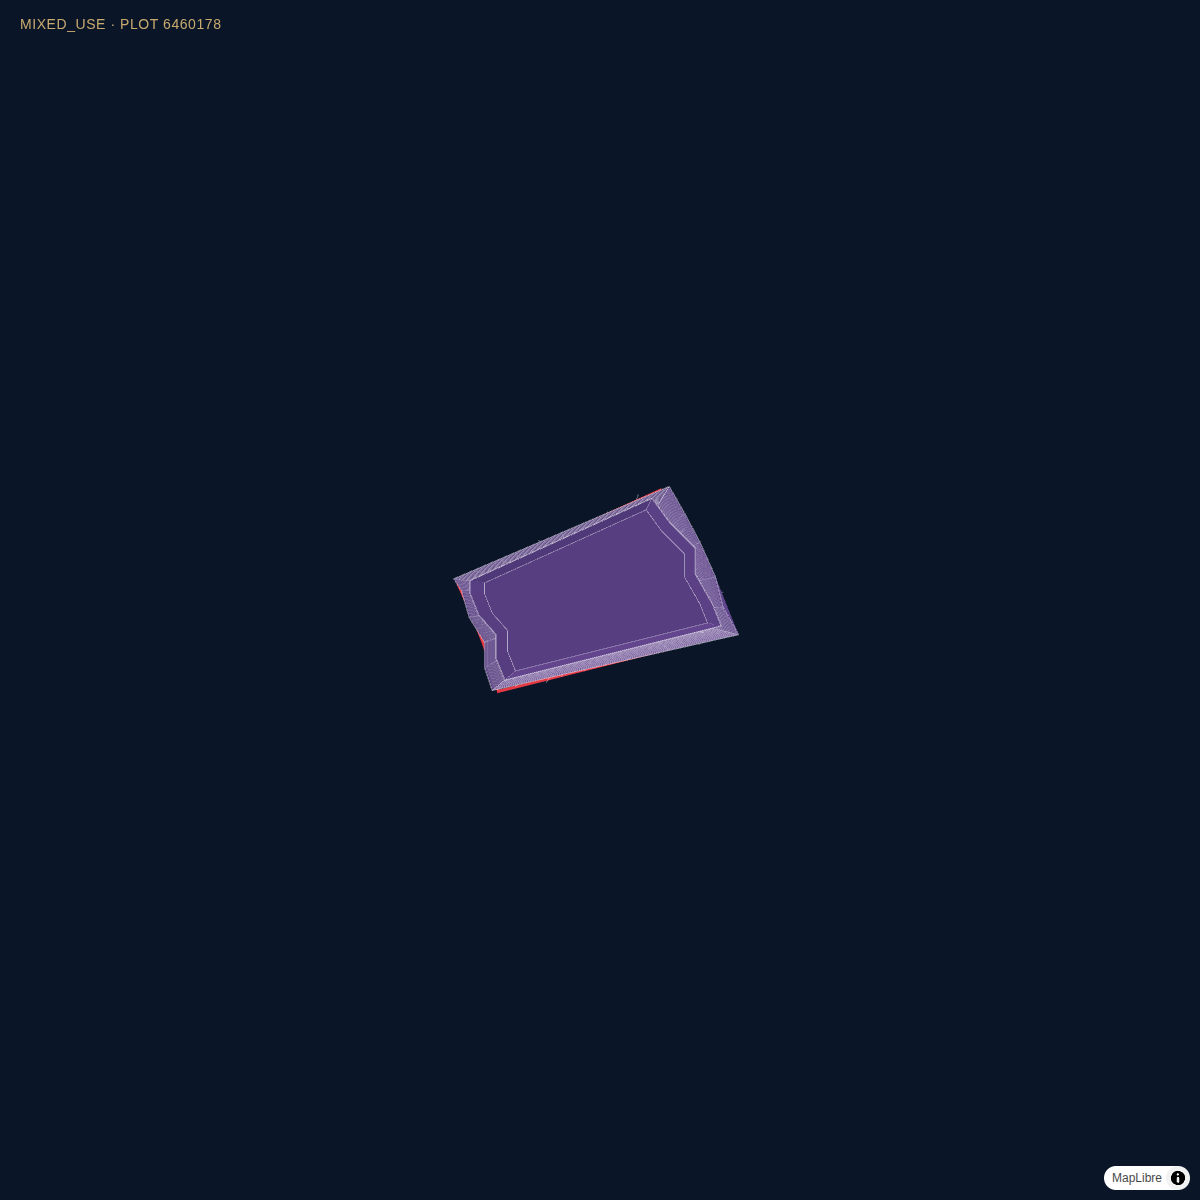
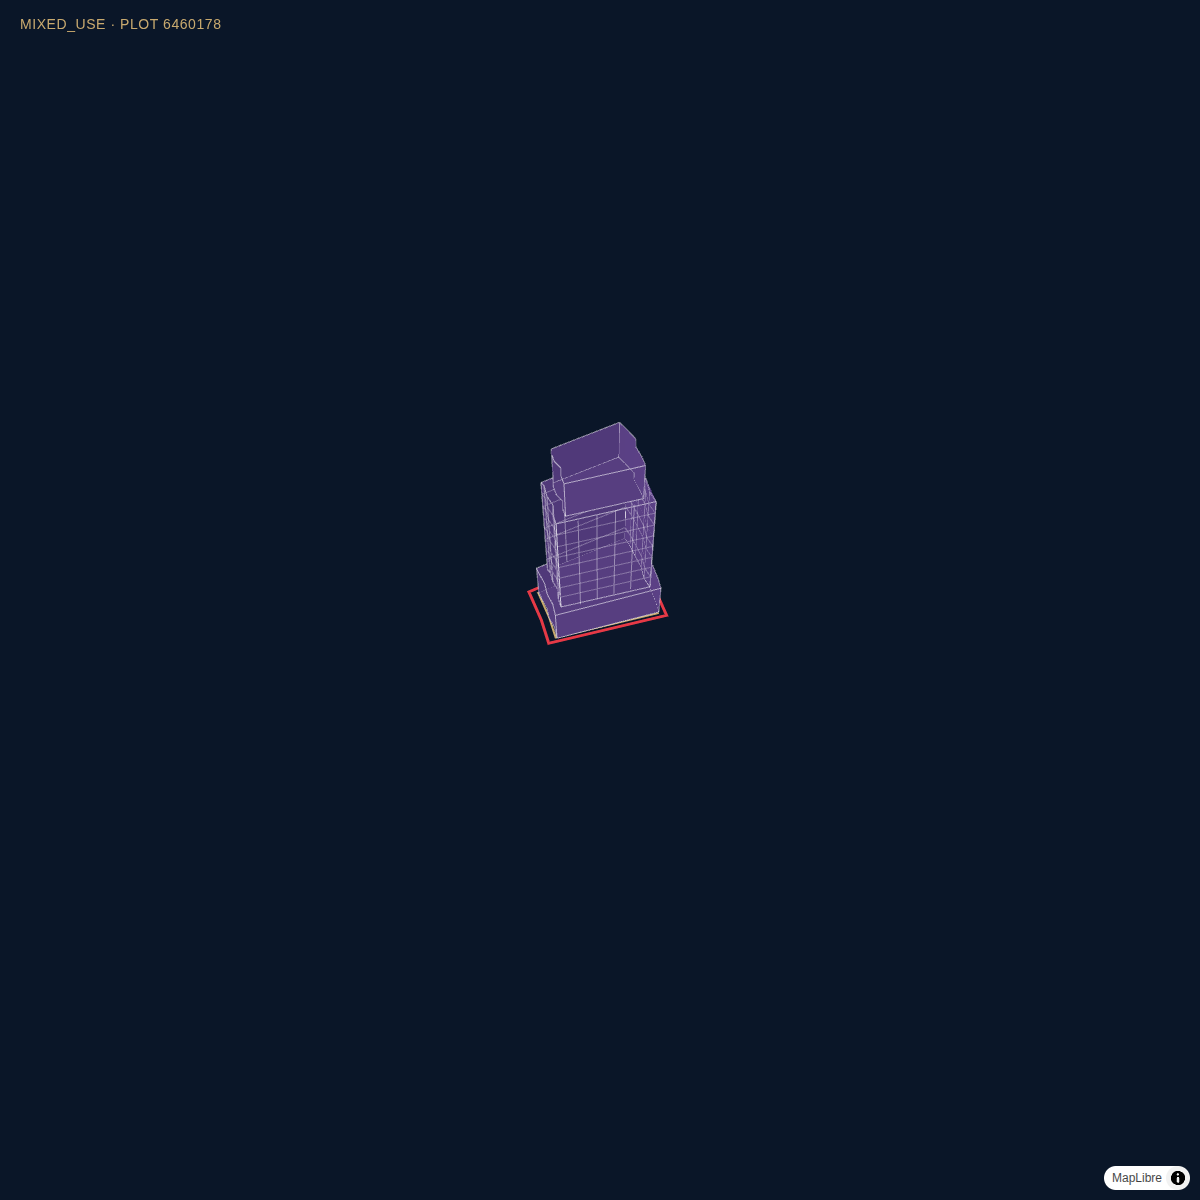
fix(archetypes): mixed-use reads solid — sparse ribs/bands (cage → opaque)
Founder: mixed-use looked transparent vs solid residential. Isolation (rendered
without ribs/bands) proved the FACES were solid purple — the see-through was the
DENSE white lattice: vertical ribs every 6m + floor bands every 3.5m on a 158m
body ≈ 45+ transparent lines reading as a wireframe cage. Fixes:
- Floor bands SPARSE for mixed-use (≤~8, step = span/8) vs per-floor for
  residential — gated on the ribs flag so RESIDENTIAL is untouched.
- Vertical ribs SPARSE (~every 14m, was 6m), opacity 0.4. Reads as clean facade
  rhythm over a solid body, not a cage.
- buildMixedUse inner tiers use scaleRing only (homothety = always fillable); no
  builder clampToFootprint (the layer's plot clamp still bounds them).
Material already opacity-1 / depthWrite (solid). Colour #6B4C9A. Verified
docs/research/archetype-shots-v2/mixeduse-6460178-3d/topdown.png — solid purple,
facade ribs, in bounds, background not showing through.

Residential + other 7 untouched. tsc clean, build green. Not merged; tiles untouched.

Changed region(s): [[0.37, 0.3392, 0.6167, 0.5858]]

diff --git a/src/lib/archetypes/archetype-layer.ts b/src/lib/archetypes/archetype-layer.ts
@@ -204,12 +204,14 @@ export function installArchetypeLayer(map: maplibregl.Map): ArchetypeLayerContro
           bGroup.add(eg);
           meshes++;
         }
-        // Floor bands — light horizontal ribs every floor on the main body.
+        // Floor bands — light horizontal rhythm on the main body. SPARSE for
+        // mixed-use (built.ribs) so the dense lattice doesn't read as a
+        // transparent cage over the solid body; residential keeps per-floor.
         if (tallRing && tallTop - tallBase >= FLOOR_H * 1.5) {
-          const bandMat = new THREE.LineBasicMaterial({ color: 0xffffff, transparent: true, opacity: 0.3 });
-          const nFloors = Math.min(60, Math.floor((tallTop - tallBase) / FLOOR_H));
-          for (let i = 1; i < nFloors; i++) {
-            const h = tallBase + i * FLOOR_H;
+          const bandMat = new THREE.LineBasicMaterial({ color: 0xffffff, transparent: true, opacity: 0.28 });
+          const span = tallTop - tallBase;
+          const bandStep = built.ribs ? Math.max(FLOOR_H, span / 8) : FLOOR_H; // ≤~8 bands for mixed-use
+          for (let h = tallBase + bandStep; h < tallTop - 0.5; h += bandStep) {
             const band = new THREE.LineLoop(
               new THREE.BufferGeometry().setFromPoints((tallRing as number[][]).map(([x, y]) => new THREE.Vector3(x, y, h))),
               bandMat,
@@ -220,18 +222,18 @@ export function installArchetypeLayer(map: maplibregl.Map): ArchetypeLayerContro
             bGroup.add(band);
           }
         }
-        // Vertical rib pilasters on the body (mixed-use facade rhythm,
-        // founder 2026-06-14). Sampled ~6 m along the body ring perimeter,
-        // each a vertical segment base→top. Line overlay — geometry untouched.
+        // Vertical rib pilasters on the body (mixed-use facade rhythm, founder
+        // 2026-06-14). SPARSE — ~every 14 m along the perimeter — so the solid
+        // purple body dominates and reads opaque. Line overlay; geometry intact.
         if (built.ribs && tallRing && tallTop - tallBase >= FLOOR_H) {
-          const ribMat = new THREE.LineBasicMaterial({ color: 0xffffff, transparent: true, opacity: 0.35 });
+          const ribMat = new THREE.LineBasicMaterial({ color: 0xffffff, transparent: true, opacity: 0.4 });
           const pos: number[] = [];
           const r = tallRing;
           for (let i = 0; i < r.length - 1; i++) {
             const [ax, ay] = r[i];
             const [bx, by] = r[i + 1];
             const segLen = Math.hypot(bx - ax, by - ay);
-            const steps = Math.max(1, Math.round(segLen / 6));
+            const steps = Math.max(1, Math.round(segLen / 14));
             for (let k = 0; k < steps; k++) {
               const t = k / steps;
               const x = ax + (bx - ax) * t;

diff --git a/src/lib/archetypes/geometry.ts b/src/lib/archetypes/geometry.ts
@@ -182,11 +182,16 @@ export function buildMixedUse(foot: number[][], _obb: Obb, H: number): BuildResu
   // rib pilasters on the body give the facade rhythm of the reference.
   const podiumTop = H * 0.20;
   const bodyTop = H * 0.80;
+  // Inner tiers use scaleRing ONLY (a homothety → always a simple, fillable
+  // polygon). Do NOT clampToFootprint here: clamping a concave-footprint
+  // homothety creates a self-intersecting ring that ExtrudeGeometry can't fill
+  // (→ a see-through wireframe body). The layer's plot-polygon clamp still keeps
+  // everything in bounds (and is a no-op for the smaller inner tiers).
   return {
     solids: [
-      { t: "prism", ring: foot, base: 0, top: podiumTop },                                         // retail podium
-      { t: "prism", ring: clampToFootprint(scaleRing(foot, 0.82), foot), base: podiumTop, top: bodyTop }, // body
-      { t: "prism", ring: clampToFootprint(scaleRing(foot, 0.65), foot), base: bodyTop, top: H },         // crown
+      { t: "prism", ring: foot, base: 0, top: podiumTop },                       // retail podium
+      { t: "prism", ring: scaleRing(foot, 0.82), base: podiumTop, top: bodyTop }, // body
+      { t: "prism", ring: scaleRing(foot, 0.65), base: bodyTop, top: H },         // crown
     ],
     floorLines: true,
     ribs: true,
